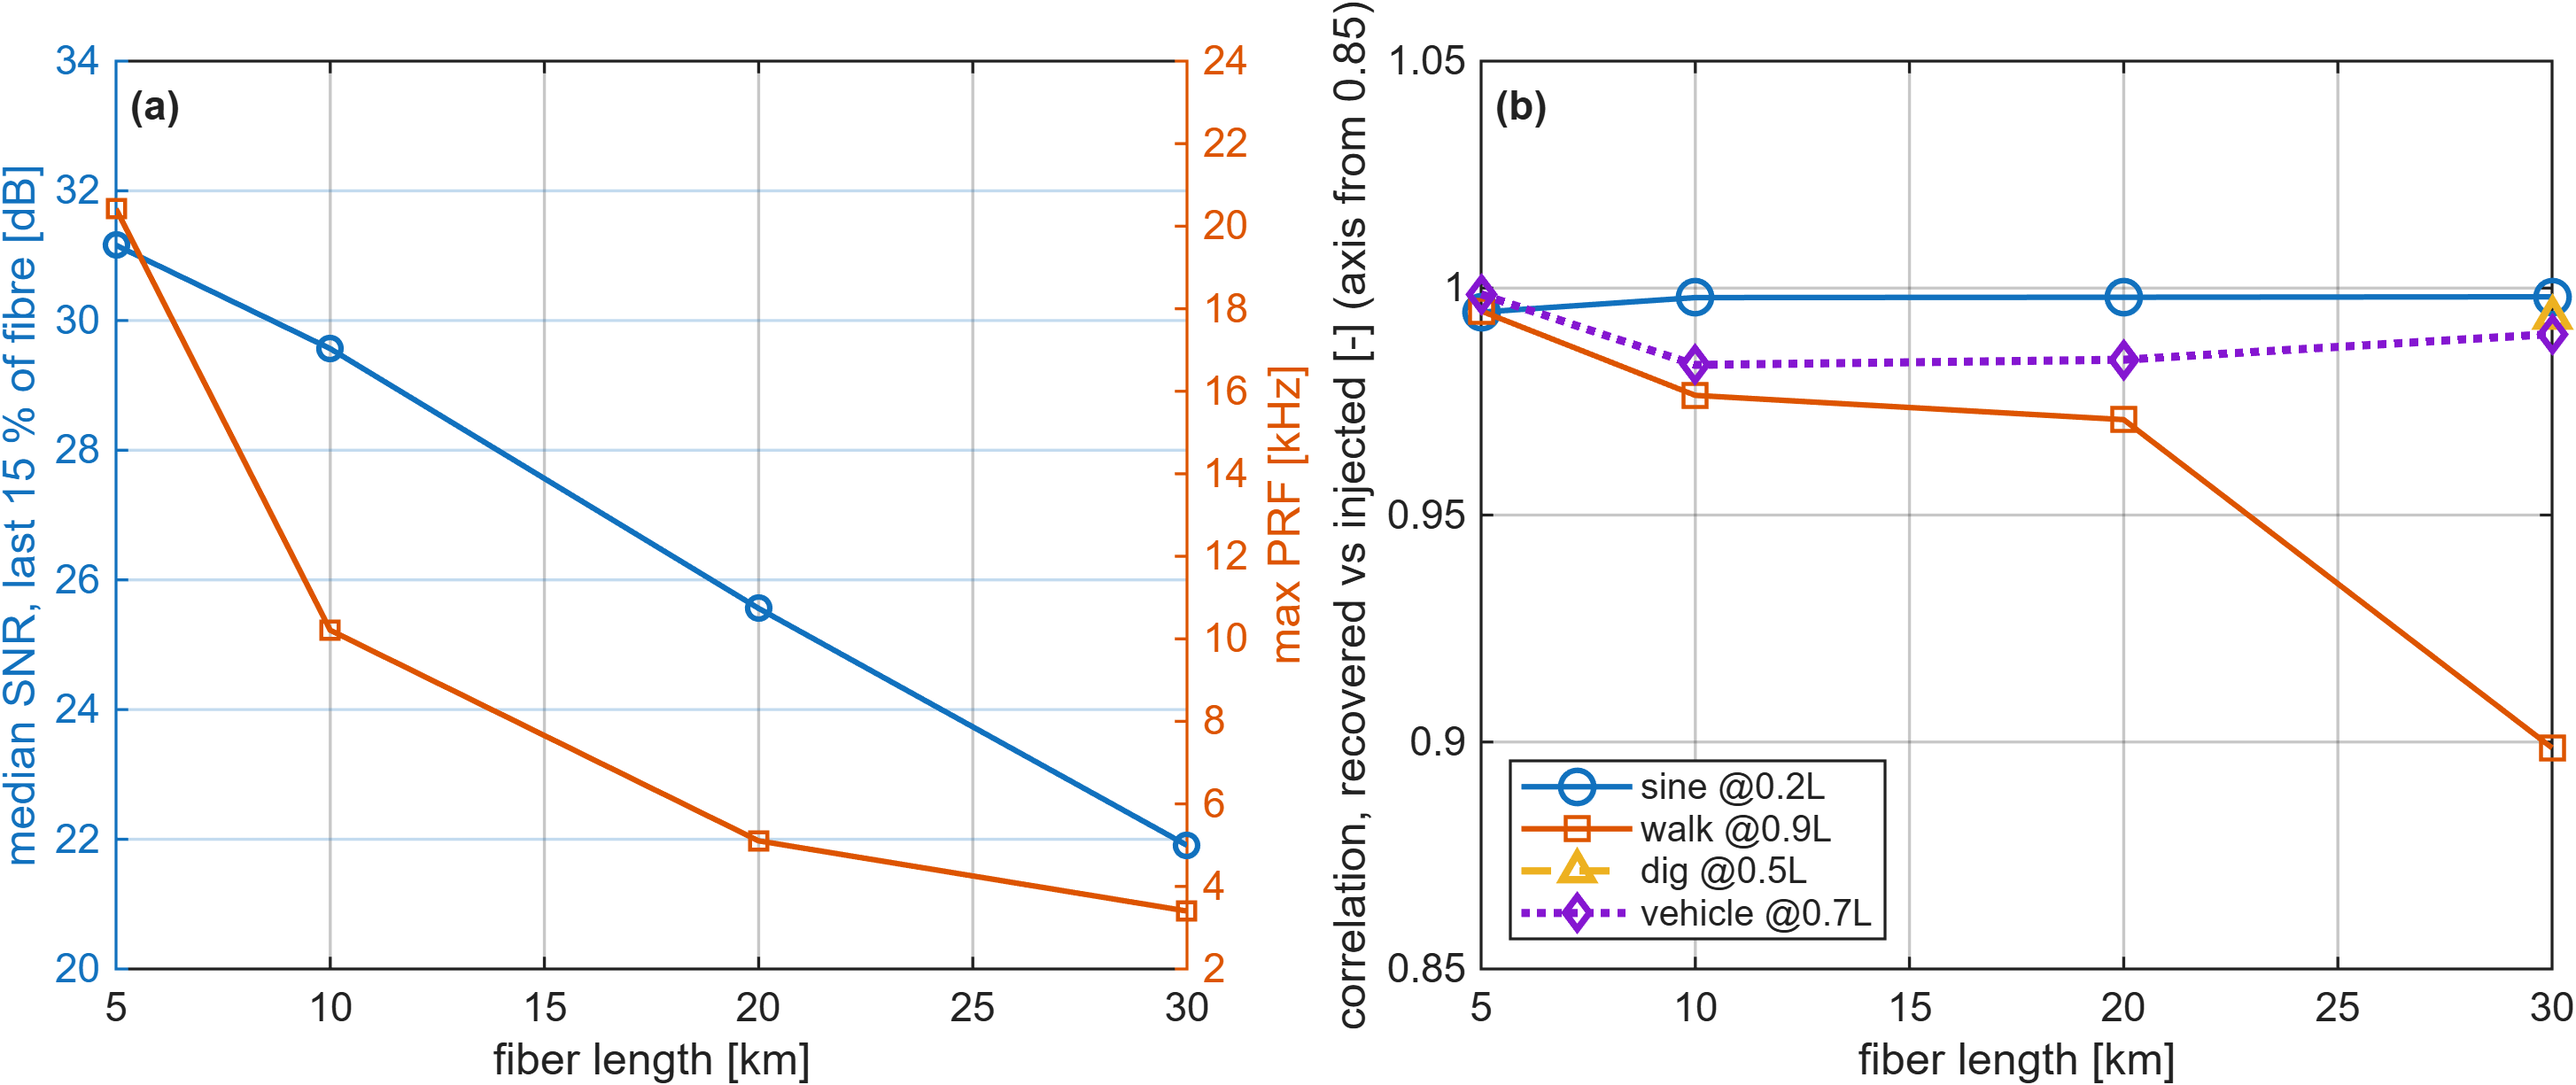
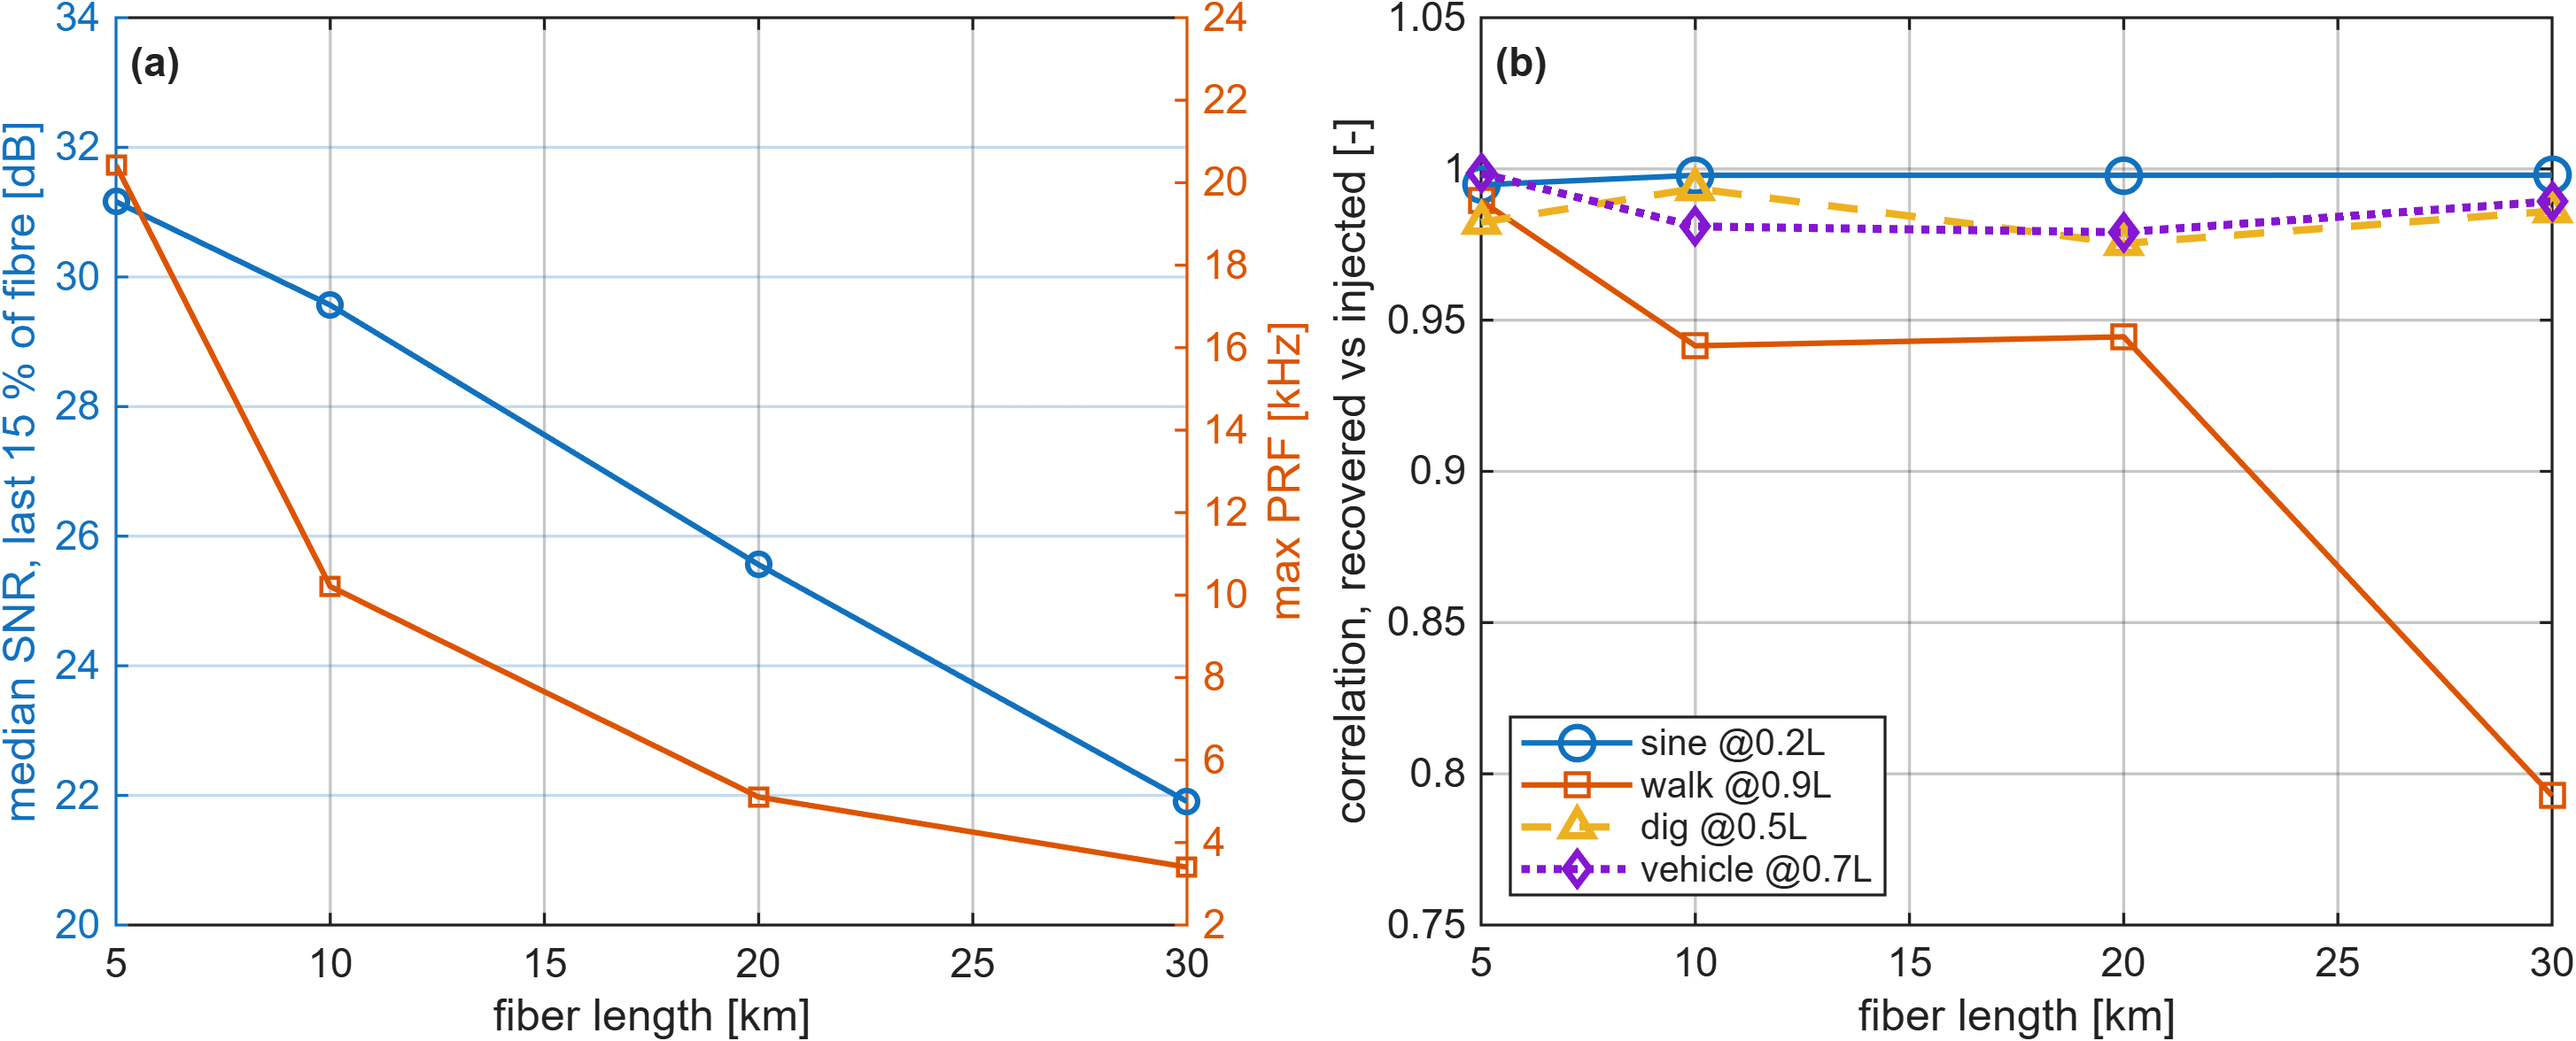
Study 4 (fibre length): record ~2 s so all events incl. dig are inside for every length
Npulses = 2*round(T_rec_target*PRR/2) (9188 for 5-20 km, 6126 for 30 km)
instead of 1000. Figure 10 regenerated (axis from 0.75 so walk @30 km is
visible); STUDY 4 table updated. Other studies untouched.

diff --git a/analysis.m b/analysis.m
@@ -167,8 +167,10 @@ if RUN(4)
     for k = 1:numel(x)
         L  = x(k)*1e3;
         fmax = das_params(struct('L_fiber_sim', L, 'f_rep', 1)).f_rep_max;
-        ov = struct('L', L, 'Npulses', 1000, 'ev_z', L*[0.2 0.9 0.5 0.7], ...
-                    'PRF', min(f_rep0, 0.9*fmax));   % keep PRR < f_rep_max (pulses must not overlap)
+        prr  = min(f_rep0, 0.9*fmax);          % keep PRR < f_rep_max (pulses must not overlap)
+        npls = 2*round(das_params().T_rec_target*prr/2);   % same ~2 s record as main: all events (dig at 0.3 s) inside
+        ov = struct('L', L, 'Npulses', npls, 'ev_z', L*[0.2 0.9 0.5 0.7], ...
+                    'PRF', prr);
         P  = params(ov);
         F  = fiber_model(P);
         ev = define_events(P);
@@ -197,8 +199,8 @@ if RUN(4)
     for k = 1:4
         plot(x, S4.corr(:, k), stl{k}, 'Color', cl(k, :), 'LineWidth', lw(k), 'MarkerSize', msz(k));
     end
-    ylim([0.85 1.05]);          % zoomed: all curves are near 1 (axis starts at 0.85)
-    xlabel('fiber length [km]'); ylabel('correlation, recovered vs injected [-] (axis from 0.85)');
+    ylim([0.75 1.05]);          % zoomed: all curves are near 1 (axis starts at 0.75)
+    xlabel('fiber length [km]'); ylabel('correlation, recovered vs injected [-]');
     legend(strcat(names, {' @0.2L',' @0.9L',' @0.5L',' @0.7L'}), 'Location', 'southwest');
     panel_label(ax, '(b)');
     save_fig_hq(fig, outdir, '10_study_length');
